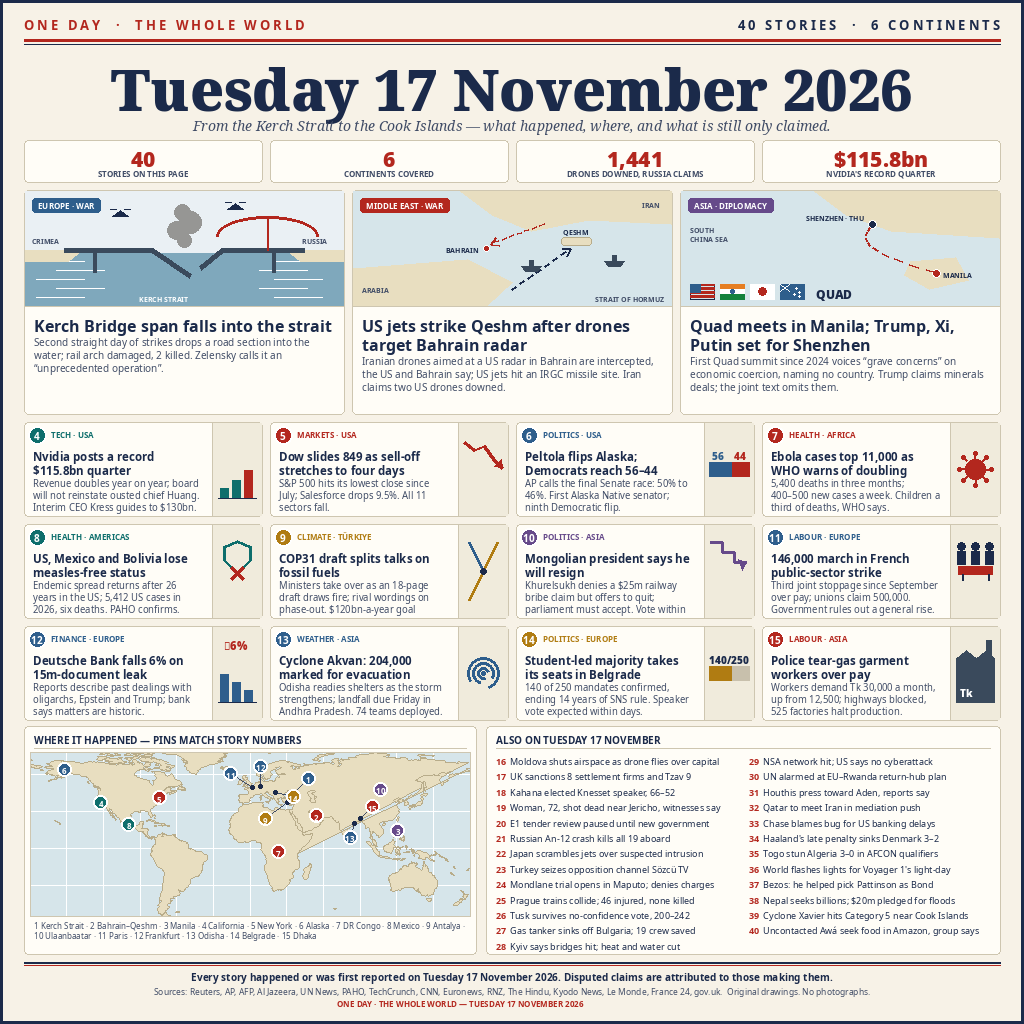
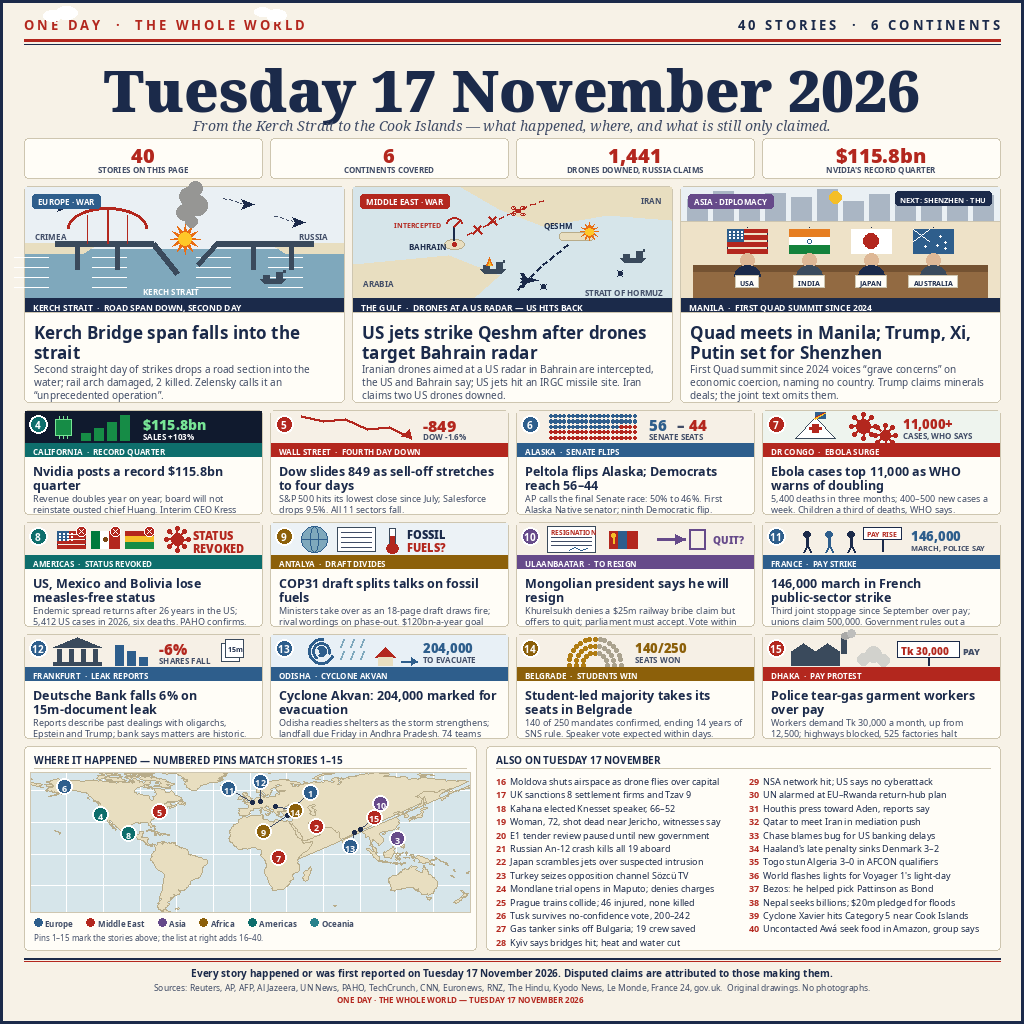
V2: denser hero scenes, illustrated card strips with caption bands
Rebuilt render from scratch after v1 scored 0.975354 (outside top 5).
Same 40 verified stories; visuals upgraded to the top-5 pattern: all
three hero scenes dense and literal (incl. Quad summit table), every
story card topped by an illustrated scene with a caption band, bigger
numbered map pins with a region colour key. Fixes a tofu minus-sign
defect found in the v1 typeface checks.

diff --git a/README.md b/README.md
@@ -11,10 +11,11 @@ sum up 17 November's world news in one image.
 ## The image
 
 A single 1024×1024 newspaper-style page: a masthead naming the day, three
-hero stories with original schematic illustrations (the Kerch Bridge span
-falling, the Gulf exchange at Bahrain and Qeshm, the Quad meeting in Manila
-ahead of the Shenzhen three-way), twelve numbered story cards with small
-original icons, a world map with fifteen numbered pins, a 25-item
+hero stories with dense original illustrated scenes (the Kerch Bridge span
+falling, the Gulf exchange at Bahrain and Qeshm, the Quad summit table in
+Manila ahead of the Shenzhen three-way), twelve numbered story cards each
+topped by an original illustrated scene with a caption band, a world map
+with fifteen numbered pins and a region colour key, a 25-item
 also-on-the-day list, and a footer stating the date rule and the outlets
 read. Forty stories in total, across six continents.
 
